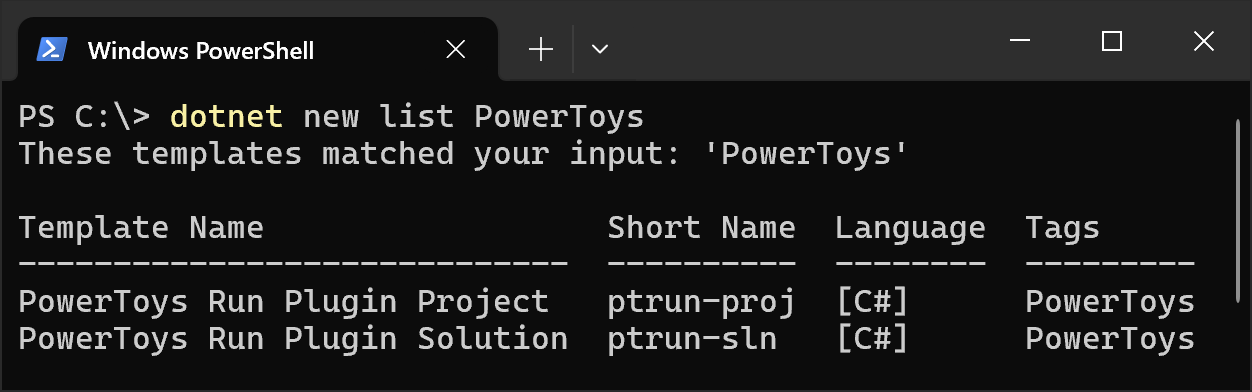
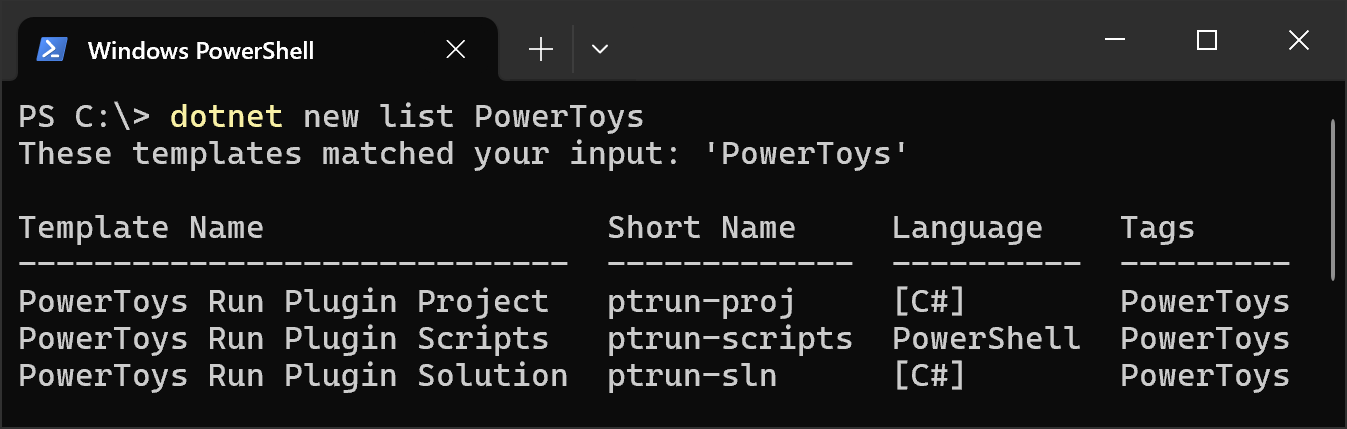
docs

diff --git a/README.md b/README.md
@@ -34,6 +34,7 @@ Help:
 ```cmd
 dotnet new ptrun-sln --help
 dotnet new ptrun-proj --help
+dotnet new ptrun-scripts --help
 ```
 
 Create a solution in the output directory `MyPlugin`:
@@ -60,6 +61,12 @@ Plugin author:
 
 ```cmd
 dotnet new ptrun-sln --plugin-author octocat
+```
+
+Create scripts in the current directory:
+
+```cmd
+dotnet new ptrun-scripts
 ```
 
 Visual Studio:
@@ -101,6 +108,15 @@ Community.PowerToys.Run.Plugin.MyPlugin
 \---Images
         myplugin.dark.png
         myplugin.light.png
+```
+
+With `ptrun-scripts`:
+
+```
+Community.PowerToys.Run.Plugin.MyPlugin
+|   deploy.ps1
+|   pack.ps1
+|   releasenotes.ps1
 ```
 
 ## Disclaimer
